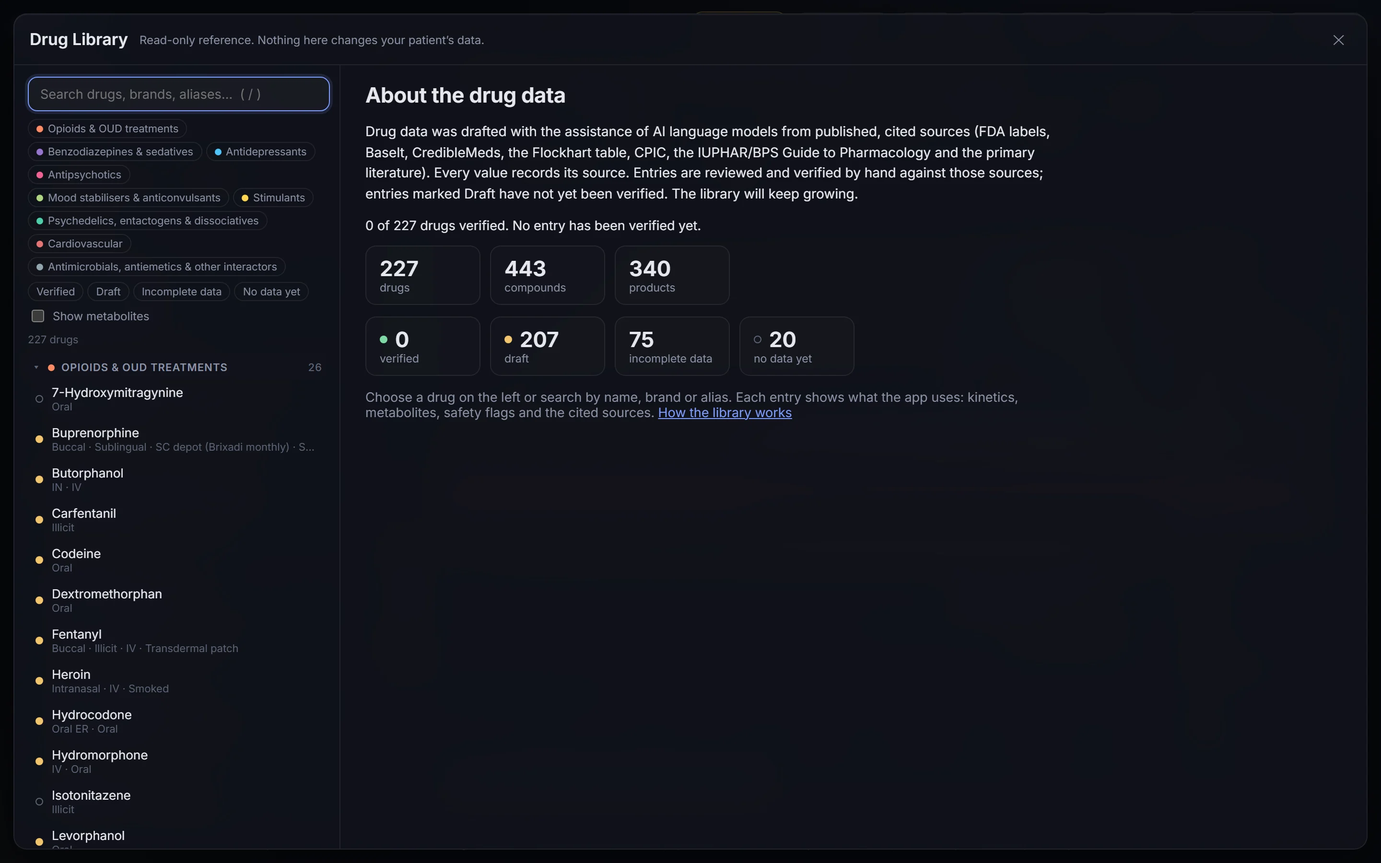
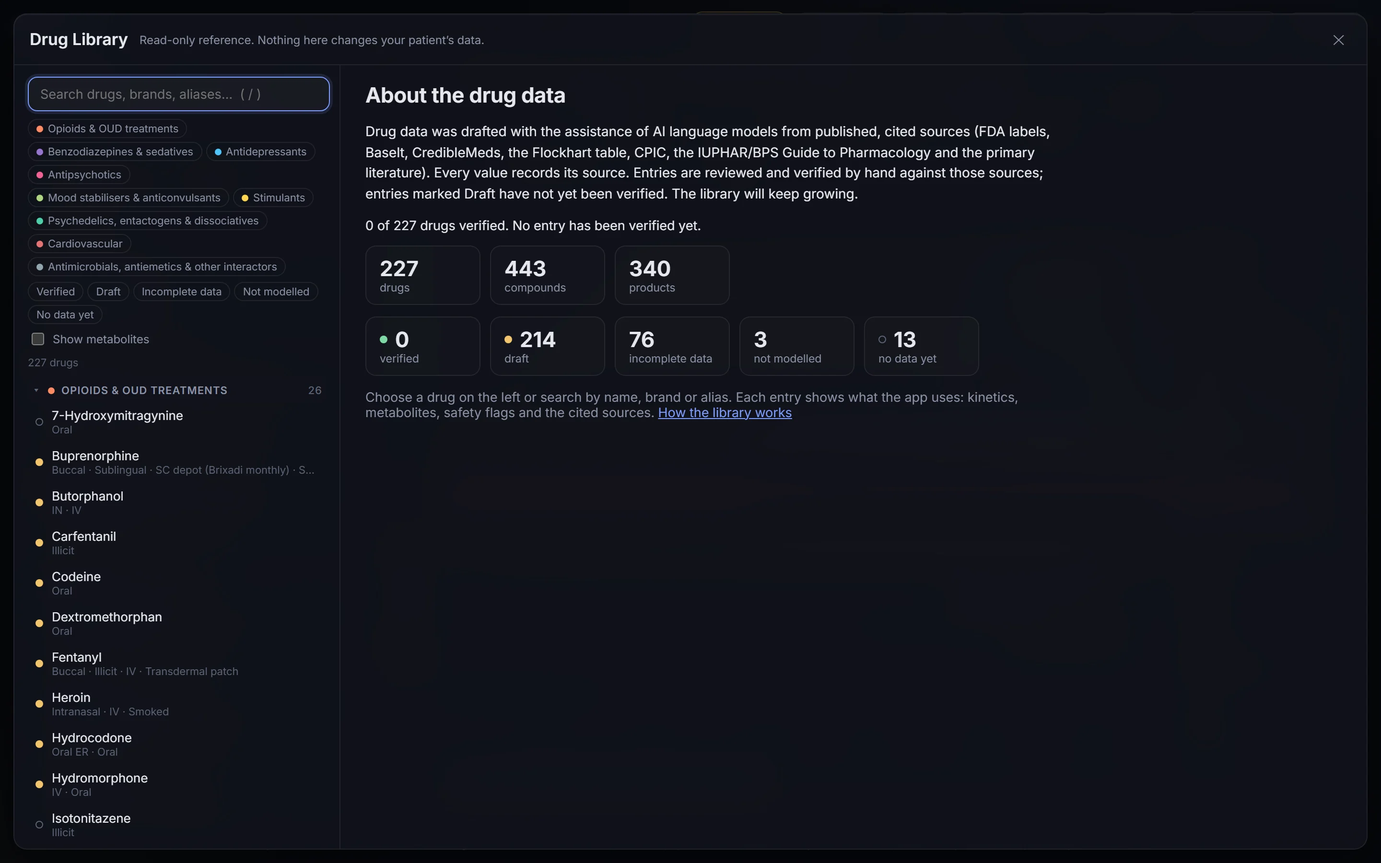
v2.2 step 6: help and README (prodrugs, alcohol, not-modelled exposures, conditional and endogenous metabolites); regenerate screenshots

diff --git a/help.html b/help.html
@@ -286,6 +286,13 @@
                 <figcaption>A depot injection.</figcaption>
               </figure>
             </div>
+            <h4 id="alcohol">Alcohol</h4>
+            <p>Alcohol is entered in <strong>standard drinks</strong> or <strong>grams of ethanol</strong>; switch with the <em>Unit</em> menu next to the amount. The grams of ethanol are shown under the amount. A standard drink is 14 g by default. Countries define it differently (14 g in the US, 10 g in Australia, 8 g for a UK unit), so set yours in <a href="#settings">Settings → Clearance</a>. The regimen defaults to once a day.</p>
+            <p>The body removes alcohol at a roughly fixed rate per kg of body weight rather than by half-lives, so ClearDate needs the patient's <strong>weight</strong>. Without it the form shows <em>Needs body weight</em>, and the product isn't simulated: its doses appear as markers on the chart and the status reads “Needs body weight”. With a weight, the curve falls in a straight line and reaches zero; the slowest published rate sets the clear date.</p>
+            <h4 id="prodrugs">Prodrugs</h4>
+            <p>Some products are given as one compound and act as another: psilocybin becomes psilocin, clorazepate becomes nordiazepam, GBL becomes GHB. You enter the amount of what was taken. The form shows “Administered as psilocybin, modelled as psilocin (× 0.719)”: the amount is converted by the ratio of their molar masses and only the active compound is plotted. The status carries “prodrug — modelled as …” as an assumption.</p>
+            <h4 id="sessions">Exposures that aren't modelled</h4>
+            <p>A few exposures aren't simulated at all because a curve would mislead. Nitrous oxide, for example, is exhaled within minutes, but it inactivates vitamin B12 for days. These products carry a <span class="badge badge-muted">not modelled</span> badge in the search. They are entered as a <strong>session</strong> with a start and end time and no amount, or as <em>Repeated sessions</em> with how long each lasts. They are drawn as bars on the chart, never as a curve, and they have no clear date. Their status is “Not modelled”, with the reason. Any lingering effect still appears on the lingering-effects track, starting from the end of each session.</p>
             <h4>Editing and deleting</h4>
             <p>Entered doses are listed under <em>Entered doses</em>, grouped by category, with each product's status underneath. Use ✎ to edit a dose and 🗑 to delete it. Hover over a status for the full list of assumptions.</p>
             <figure class="shot narrow" data-img="dose-list.webp">
@@ -333,6 +340,7 @@
               <li><strong>Bands</strong>: the shaded area around a line runs from the fastest to the slowest clearance in the published range. The line is the typical value.</li>
               <li><strong>Today</strong> is a dotted line; the <strong>first ibogaine dose</strong> is a bold gold line, with later doses as thin dashed gold lines.</li>
               <li><strong>Clear ticks</strong> along the bottom mark each product's clear date: “✓ name”, “✓ name*” for “with assumptions”, and a hollow, dashed “≥ name (incomplete)” for a lower bound.</li>
+              <li><strong>Exposure markers</strong> appear just above the clear ticks for products without a curve: a bar across each session, or a short tick at each dose. They're labelled “name — not modelled” or “name — needs body weight”. They show <em>when</em> the exposure happened; they say nothing about amounts.</li>
             </ul>
             <figure class="shot" data-img="chart-main.webp">
               <div class="shot-frame"><img src="help/img/chart-main.webp" alt="The main chart: curves for each drug with shaded range bands, a dotted Today line, the gold Ibogaine line and a dashed booster line, and clear ticks with drug names along the bottom." /></div>
@@ -398,6 +406,8 @@
                   <tr><td>Clear by &lt;date&gt;</td><td>Every relevant compound is below the threshold by that date, using library values only.</td><td>Still read the range: the PDF also gives the slowest date in the range.</td></tr>
                   <tr><td>Clear by &lt;date&gt; — with assumptions</td><td>The date relies on something the tool had to assume: an assumed spread around a single published value, the midpoint of a published range, an assumed phenotype effect, a steady-state switch, a conservative choice for partial data, or a metabolite treated as inactive before review.</td><td>Hover over the status, or read the PDF's “Assumptions and missing data”, and decide whether each one is acceptable for this patient.</td></tr>
                   <tr><td>Incomplete — missing kinetics for: … · not before &lt;date&gt;</td><td>At least one active or not-yet-classified compound in the drug has no published kinetics in the library. The date is a lower bound: clearance can't happen earlier, but it may be later.</td><td>Treat the date as the earliest possible. Check the missing compound in the literature or with a laboratory test before relying on it.</td></tr>
+                  <tr><td>Not modelled — &lt;reason&gt;</td><td>The exposure is deliberately not simulated (for example nitrous oxide). Sessions are drawn as markers, and any lingering effect is shown, but there is no clear date.</td><td>Read the reason and the lingering-effects note, and judge the timing clinically.</td></tr>
+                  <tr><td>Needs body weight</td><td>Alcohol's elimination rate scales with weight, and none is entered.</td><td>Enter the weight in the Patient tab.</td></tr>
                   <tr><td>No data yet</td><td>The drug itself has no half-life in the library. It can't be selected, and isn't plotted.</td><td>Use other sources, or <a href="#custom">enter it as a custom drug</a> with a cited half-life, and <a href="#feedback">request it</a>.</td></tr>
                   <tr><td>Verified — incomplete data</td><td>A badge: the entry has been fully reviewed, and the missing kinetics are confirmed as unpublished rather than not yet looked up.</td><td>As for Incomplete. Waiting for a library update won't help.</td></tr>
                 </tbody>
@@ -492,6 +502,7 @@
               <li><strong>CYP2D6 recovery half-life (h)</strong>: default 51 h. How fast CYP2D6 is resynthesised after mechanism-based inhibition. Marked “verify”: check it against current literature.</li>
               <li><strong>Assumed spread when only one value is known (CV %)</strong>: default 30%. Used where the library has a single half-life or a missing bound. Labelled “assumed spread” wherever it is used.</li>
               <li><strong>Treat unknown metabolites as formation-limited</strong>: off by default. Off, a product with a metabolite of unknown kinetics is “Incomplete”. On, that metabolite is assumed to clear as fast as it is formed, and the product is “with assumptions” instead.</li>
+              <li><strong>Standard drink (g of ethanol)</strong>: default 14 g, the US definition; 10 g in Australia, 8 g for a UK unit. Used for alcohol entered in standard drinks (see <a href="#alcohol">Alcohol</a>).</li>
             </ul>
             <h4>Display</h4>
             <ul>
@@ -508,7 +519,7 @@
             </ul>
             <div class="shot-row">
               <figure class="shot narrow" data-img="settings-clearance.webp">
-                <div class="shot-frame"><img src="help/img/settings-clearance.webp" alt="The Clearance settings: clear threshold 5.5 half-lives with about 2.21% remaining, CYP2D6 recovery half-life 51 hours with a verify badge, assumed spread 30%, and the unknown-metabolites option." /></div>
+                <div class="shot-frame"><img src="help/img/settings-clearance.webp" alt="The Clearance settings: clear threshold 5.5 half-lives with about 2.21% remaining, CYP2D6 recovery half-life 51 hours with a verify badge, assumed spread 30%, the unknown-metabolites option, and the standard drink size, 14 g." /></div>
                 <figcaption>Clearance settings.</figcaption>
               </figure>
               <figure class="shot narrow" data-img="settings-display.webp">
@@ -599,6 +610,7 @@
             <li><strong>Two-phase drugs</strong> clear part of each dose quickly and the rest slowly. Both phases are modelled when the library has them.</li>
             <li><strong>Steady state</strong>: some drugs clear more slowly (or quickly) after weeks of regular dosing. Once a regimen has run long enough, the steady-state half-life is used, and the tooltip and PDF say so.</li>
             <li><strong>Patches, infusions and depots</strong> release the drug into the body gradually. ClearDate models the release as its own step before elimination, so the drug keeps entering the body for a while after a patch is removed or long after a depot injection.</li>
+            <li><strong>Alcohol</strong> is removed at a fixed rate (mg per kg per hour) rather than a fixed fraction, so its curve falls in a straight line and reaches zero. The fastest published rate gives the lower edge of the band and the slowest gives the upper edge and the clear date.</li>
           </ul>
 
           <h3>CYP2D6 phenotype</h3>
@@ -606,6 +618,10 @@
 
           <h3>Clinical relevance of metabolites</h3>
           <p>Every metabolite in the library is classed as <em>active</em>, <em>inactive</em> or <em>unknown</em>. Drugs taken and active metabolites always count towards the clear date. Unknown ones count too, so an unclassified metabolite with unpublished kinetics makes the product “Incomplete” rather than silently ignored. Inactive metabolites never hold up the clear date; when that classification hasn't been reviewed yet, the status becomes “with assumptions”.</p>
+
+          <h3>Endogenous and conditional metabolites</h3>
+          <p>Some metabolites are also made by the body, such as indole-3-acetic acid from DMT. Only the excess over the body's own level would matter, and that isn't modelled. Once a reviewer has confirmed the metabolite's relevance, it is marked <em>endogenous — excess over baseline not modelled</em> and doesn't make the product “Incomplete”.</p>
+          <p>A few metabolites form only when another drug is present at the same time. Cocaethylene, for example, forms only when cocaine and alcohol are in the body together, and ethylphenidate only from methylphenidate with alcohol. ClearDate includes such a metabolite only when the two overlap, and notes “formed because alcohol was also taken”. In the Drug Library these links are drawn dashed and labelled “with alcohol”. If the alcohol amount can't be simulated (for example without a body weight), the alcohol is assumed to be present from the first drink, and this is listed as an assumption.</p>
 
           <h3>The conservative rule</h3>
           <p>When data is only partly published, ClearDate uses whichever option gives the later clear date, and labels it. For example, a fast early phase without a known size is ignored, so the whole dose follows the slower half-life. When it isn't known how long a drug takes to reach steady state, a repeated regimen is simulated both ways and the later date counts.</p>
@@ -660,7 +676,7 @@
             <ol class="callout-list">
               <li>Search by name, brand or alias, using the same search as the Doses panel.</li>
               <li>Filter by category. You can select more than one.</li>
-              <li>Filter by status: Verified, Draft, Incomplete data, No data yet.</li>
+              <li>Filter by status: Verified, Draft, Incomplete data, Not modelled, No data yet.</li>
               <li>Also list metabolites, which have entries of their own.</li>
               <li>Status dot: green for verified (a green ring for verified with incomplete data), amber for draft, an empty circle for no data yet.</li>
               <li>Live counts from the library.</li>
@@ -685,6 +701,7 @@
               <li>A metabolite. Select it to open its own entry. Blue outline: active; grey: inactive; dashed amber: relevance unknown.</li>
               <li>The fraction formed, and any CYP2D6 phenotype multipliers, on each link.</li>
             </ol>
+            <p>A dashed amber link labelled “with alcohol” is <a href="#model">conditional</a>: that metabolite only forms when alcohol is also present. A green <em>endogenous</em> chip marks a metabolite the body also makes. Products of prodrugs show “administered as … modelled as …” with the molar-mass factor, alcohol shows its elimination rate per kg, and not-modelled drugs show the reason instead of a half-life.</p>
           </figure>
           <figure class="shot" data-img="library-sources.webp">
             <div class="shot-frame"><img src="help/img/library-sources.webp" alt="The sources of one entry: each section with its cited sources as links and a small coloured provenance dot, an open Show evidence notes panel with the raw notes, and a legend explaining the dots." /></div>

diff --git a/README.md b/README.md
@@ -60,9 +60,10 @@ Double-click **`stop-cleardate.bat`** to stop the app and the editor. It kills w
 | `npm run build` | Runs the validator (`prebuild`), type-checks and writes the static site to `dist/`. The build fails if `drugs.json` has errors. Demo data is never bundled. |
 | `npm run preview` | Serves `dist/` locally. |
 | `npm test` | Unit tests (PK simulation, model and clear status, migration, search, serialisation, sessions). |
-| `npm run init-data` | Creates a schema 2.1 `public/drugs.json` from `tools/candidates.json` with every value unknown (`null` / `unassessed`). Uses the same product rules as the migrations, so it yields the same product set. Refuses to overwrite an existing file; `--force` overwrites, `--out <path>` writes elsewhere. |
+| `npm run init-data` | Creates a schema 2.2 `public/drugs.json` from `tools/candidates.json` with every value unknown (`null` / `unassessed`). Uses the same product rules as the migrations, so it yields the same product set. Refuses to overwrite an existing file; `--force` overwrites, `--out <path>` writes elsewhere. |
 | `npm run migrate-v2` | One-off migration of a v1 `drugs.json` to schema v2 (see below). Does nothing if the file is already v2. |
 | `npm run migrate-v2.1` | One-off migration of a v2 `drugs.json` to schema 2.1 (see below). `--dry-run` reports without writing. Does nothing if the file is already 2.1. |
+| `npm run migrate-v2.2` | One-off migration of a 2.1 `drugs.json` to schema 2.2 (see below). `--dry-run` reports without writing. Idempotent. |
 | `npm run validate` | Checks `public/drugs.json` (or a path given as an argument) and prints errors, warnings and per-category progress. Exits non-zero on errors. |
 | `npm run editor` | Local data editor at http://127.0.0.1:5174. |
 | `npm run screenshots` | Regenerates the help page screenshots in `public/help/img/` (and the callout positions in `callouts.json`) with Playwright, from the fictional patient and fixed date in `tools/help-scenario.json`. Run it after UI or library changes, then check the callout lists in `help.html`. First time only: `npx playwright install chromium`. |
@@ -86,7 +87,7 @@ The site is fully static: no backend, no analytics, no external requests at runt
 
 ## Editing `drugs.json`
 
-The file is schema 2.1 (`"schemaVersion": 2.1`); the field rules are in `docs/ClearDate_Spec_v2.md` and its addendum `docs/ClearDate_Spec_v2.1.md`. Three principles run through it:
+The file is schema 2.2 (`"schemaVersion": 2.2`); the field rules are in `docs/ClearDate_Spec_v2.md` and its addenda `docs/ClearDate_Spec_v2.1.md` and `docs/ClearDate_Spec_v2.2.md`. Three principles run through it:
 
 - **Unknown is `null`, never `0`.** Every number without data is `null`. Safety enums (QT tier, CYP2D6 substrate / inhibitor / inhibition type, nonlinear kinetics) have an explicit `unassessed` value, and `receptorsAssessed: false` means an empty receptor list hasn't been researched. The app and the export always show these as "unassessed", never as "none". (The one deliberate zero is a CYP2D6 *formation* multiplier, see below.)
 - **Provenance per section.** Each compound section (`halfLife`, `metabolism`, `relevance` for metabolites, `molecularWeight`, `cyp2d6`, `qt`, `receptors`, `lingeringEffects`, `nonlinearKinetics`) and each product section (`class`, `aliases`, `components`, `input`, `typicalDose`) has a tag: `checked`, `recall`, `estimate`, `gap` or `reviewer`, with a free-text note in `sourceNotes` and, once reviewed, a date in `reviewedDates`. Anything `recall` or `estimate` shows a *draft* badge.
@@ -97,16 +98,18 @@ The library has three lists.
 - **`compounds`**: every parent drug and every metabolite, each defined once.
   - Half-lives are **ranges**: `{ typical, min, max, rangeType, cv }`. `rangeType` says what the bounds mean (`observed-range`, `mean-2sd`, `cohort-means`, `cv`, `single-value`). With `cv` the app derives a lognormal 95 % band. With `single-value` it applies the *assumed spread* from Settings (default CV 30 %) and labels it as such. When a source gives only a range (e.g. a depot label's "43–60 days"), leave `typical` `null` and set both bounds with `rangeType` `observed-range` or `cohort-means`: the app uses the geometric midpoint √(min × max) and labels it "assumed midpoint of reported range".
   - `clinicalRelevance` is `active`, `inactive` or `unknown`. It decides whether a metabolite can hold up a clear date (see *Clear status*). Parent compounds and any compound a product doses directly always count as `active`, whatever the field says.
-  - `kinetics.mode` is `intrinsic` (uses `halfLifeHours`, the terminal phase), `formation-limited` (the compound tracks its parent: typical for glucuronide and sulfate conjugates, no half-life needed) or `unknown` (can't be simulated).
+  - `kinetics.mode` is `intrinsic` (uses `halfLifeHours`, the terminal phase), `formation-limited` (the compound tracks its parent: typical for glucuronide and sulfate conjugates, no half-life needed), `zero-order` (saturable elimination at `zeroOrderRateMgPerKgPerHour`, a range, × body weight: ethanol), `not-modelled` (deliberately not simulated; `notModelledReason` is shown instead of a clear date: nitrous oxide, 5-HTP, L-tryptophan) or `unknown` (can't be simulated).
+  - `endogenous: true` marks a metabolite the body also makes (indole-3-acetic acid from DMT). With `unknown` kinetics and a reviewer-confirmed relevance it is labelled "endogenous — excess over baseline not modelled" and doesn't block the clear date.
   - Optional `kinetics.earlyPhase` (`{ fraction, halfLifeHours }`) models a fast first phase, such as morphine's. Optional `kinetics.steadyState` (`{ afterDays, halfLifeHours }`) switches to a different half-life once a regimen has run long enough, such as methadone's.
-  - A metabolite lists its parents in `formedFrom`: `{ compound, fraction, cyp2d6Multiplier }`. `fraction` is the share of the parent that becomes this metabolite, or `null` if unknown. `cyp2d6Multiplier` scales the fraction per phenotype (codeine → morphine); a value of `0` means the metabolite isn't formed in that phenotype (e.g. morphine in poor metabolisers, per CPIC). A compound can have several parents, chains can be any depth, known fractions out of one parent must sum to 1 or less, and links must not form a cycle.
+  - A metabolite lists its parents in `formedFrom`: `{ compound, fraction, cyp2d6Multiplier }`. `fraction` is the share of the parent that becomes this metabolite, or `null` if unknown. `cyp2d6Multiplier` scales the fraction per phenotype (codeine → morphine); a value of `0` means the metabolite isn't formed in that phenotype (e.g. morphine in poor metabolisers, per CPIC). A compound can have several parents, chains can be any depth, known fractions out of one parent must sum to 1 or less, and links must not form a cycle. An optional `condition: { requiresCompound }` makes the link conditional: it is only formed while that compound is also present (cocaine → cocaethylene with ethanol), and it never makes a product incomplete.
   - `cyp2d6.halfLifeMultiplier` scales the compound's own half-life per phenotype; its values must be above 0.
   - Both phenotype maps may be **partial**: list only the phenotypes with data. A missing phenotype counts as ×1 and is labelled as assumed.
   - QT weight and its calibration amount (`qt.weight`, `qt.referenceAmountMg`) are set only by a reviewer.
 - **`products`**: what a patient actually takes.
   - `candidateId` ties the product to its entry in `tools/candidates.json`.
   - `components` lists what one dose delivers: `{ compound, ratio, saltFactor, bioavailability }`. Most products have one component. Buprenorphine/naloxone has two (ratio 1 and 0.25), and the first component is the one the dose is labelled by.
-  - `doseUnit` is `mg`, `µg`, `µg/h` or `mg/h`. `formulation` is `IR`, `ER`, `SR`, `XL`, `XR`, `CR`, `depot` or `patch`.
+  - **Prodrugs**: a component with `administeredAs` (what the patient takes) and `massFactor` (molar mass of the modelled compound ÷ the administered one) delivers `dose × ratio × massFactor` to `compound`; the administered compound is never simulated. Psilocybin → psilocin, clorazepate → nordiazepam, 1P-LSD → LSD, GBL → GHB. Provenance section `conversion`.
+  - `doseUnit` is `mg`, `µg`, `g`, `standard drinks` (alcohol; grams per drink is a user setting, default 14), `µg/h`, `mg/h` or `session` (a not-modelled exposure with a start and end time). `formulation` is `IR`, `ER`, `SR`, `XL`, `XR`, `CR`, `depot` or `patch`.
   - `input` says how a dose enters the body: `bolus` (instant), `first-order-release` (a release compartment with `releaseHalfLifeHours`, for depots and ER forms), or `zero-order` (a constant rate for a wear time, for patches and infusions, optionally through a skin depot). `defaultDurationHours` prefills patch wear time.
   - `typicalDose` (`{ amount, unit, basis }`) is only a placeholder in the dose form.
   - `secondaryCategories` puts a product under more than one picker group.
@@ -152,6 +155,9 @@ Saves are atomic, keep a rolling backup in `tools/editor/.backups/`, and are ref
 - **Combination products.** Each component receives `dose × ratio × saltFactor × bioavailability`, where a `null` factor counts as 1.
 - **Steps.** Pools are updated upstream-first with the exact solution for constant inflow over the step. The step is the shortest active half-life ÷ 20, at most 1 h, and never crosses a dose time or a patch start or stop. Against analytic solutions (Bateman, biexponential, infusion steady state) the error is under 1 %.
 - **Units.** Amounts are shown in the product's mass unit (parent-equivalent, or the metabolite's own mass when both molecular weights are known).
+- **Zero-order (alcohol).** The amount falls by `rate × body weight` per hour until it reaches zero (`A' = max(0, A + input − R·dt)`). The min run uses the fastest rate and the max run the slowest, which sets the clear date. Without a body weight the product isn't simulated: status *Needs body weight*, with exposure markers on the chart.
+- **Not modelled.** No curve and no clear date: status "Not modelled — \<reason\>". Doses are drawn as exposure markers (a bar across each session), and lingering bands start at the end of each exposure.
+- **Conditional links** are simulated in a second pass: the link is active while the parent is above its clear threshold and the required compound is present. The note reads "formed because alcohol was also taken". If the required compound can't be simulated, it is assumed present from its first dose and that is listed as an assumption.
 - **Formation-limited compounds** are simulated with an elimination half-life of one-tenth of their fastest parent's effective half-life, so they track the parent. They're labelled "tracks parent (formation-limited)". The export notes that conjugates can accumulate in renal impairment.
 - **Unknown fractions.** A metabolite link with a `null` fraction is simulated with fraction 1. Everything downstream of it is **normalized**: drawn dashed on the secondary "% of own peak" axis and labelled "amount unknown — timing only". Its clear time is still valid, because clearing is measured against the compound's own peak.
 - **Range band.** Three runs: all-min, typical and all-max. Each range uses its own `rangeType` (a lognormal band for `cv`, the assumed spread for `single-value`, the reported bounds around the assumed midpoint for range-only evidence), and early phases and release half-lives use their own ranges in the same run. The patient's CYP2D6 phenotype scales substrate half-lives (`halfLifeMultiplier`) and metabolite formation (`cyp2d6Multiplier`). An unknown phenotype runs poor and ultrarapid as the band edges. A phenotype missing from a partial map counts as ×1, labelled as assumed.
@@ -169,6 +175,7 @@ Saves are atomic, keep a rolling backup in `tools/editor/.backups/`, and are ref
   - **Clear by \<date\>**.
   - **Clear by \<date\> — with assumptions**: formation-limited tracking, assumed spread, an assumed range midpoint or phenotype multiplier, a steady-state switch, a conservative partial-data choice, a draft inactive exclusion or normalized curves were used. They're listed on hover and in the export.
   - **Incomplete — missing kinetics for: …**: some active or unknown-relevance compound in the tree has `unknown` kinetics (an active compound formed only through such a compound is listed as "formed only via …"). The date shown is a lower bound ("not before \<date\>"), and an incomplete product near the ibogaine date gives an amber warning, never green. Settings → *Treat unknown metabolites as formation-limited* (off by default) simulates such compounds as formation-limited instead, which turns the status into "with assumptions".
+  - **Not modelled — \<reason\>** and **Needs body weight**: see above; neither has a clear date.
   - **No data yet**: the primary component can't be simulated, so the product can't be dosed.
 - **CYP2D6 track.** Shows the intervals where an inhibitor is above its clear threshold. Mechanism-based inhibitors add a recovery tail of X × the enzyme recovery half-life (default 51 h). A compound with `inhibitionType` set (`reversible` / `mechanism-based`) but `inhibitor: "unassessed"` is drawn as a hatched band, "inhibition documented, strength unassessed", and counts as at least `weak` for the inhibition-at-treatment warning, which names it separately. Compounds with both fields unassessed stay off the track and are listed in the "CYP2D6 inhibition unassessed" warning instead. If inhibition overlaps the ibogaine time (or the patient is a poor metaboliser), the ibogaine projection uses the poor-metaboliser multiplier. If a CYP2D6 substrate in the projection has no `halfLifeMultiplier.poor`, the curve is left unadjusted and labelled "poor-metaboliser effect not quantified"; the warning, the tooltip and the export's Assumptions and missing data say "not quantified — no phenotype data for <compound>".
 - **QT lanes.** There is one thin lane per compound whose QT tier isn't `none`, visible while that compound is above its clear threshold. The colour is the tier and the opacity is the fraction of the compound's own peak. Unassessed compounds get a grey hatched "QT unassessed" lane. The optional **summed relative QT load** (`Σ qt.weight × amount ÷ qt.referenceAmountMg`) works only when every active lane has a reviewer-set weight and reference amount and an absolute amount. Otherwise its toggle is disabled, and the tooltip names the compounds that lack calibration. None of this predicts QTc in ms.
@@ -222,6 +229,16 @@ What the migration does, in short:
 - `reviewedDates: {}` on every compound and product;
 - CYP2D6 inhibitors recorded as `none` whose note says inhibition was never assessed are reset to `unassessed`. The script checks the hits against the expected list in `tools/migrate-v21-lib.ts` and stops without writing anything if they differ;
 - `baclofen_intrathecal` is removed (pump and CSF kinetics can't be modelled); sessions that used it are offered `baclofen_oral`.
+
+## Migrating to schema 2.2
+
+`public/drugs.json` is already on 2.2 (`docs/migration_v2_2_report.md`). For another 2.1 file, close the editor and run `npm run migrate-v2.2` (`--dry-run` to preview, or a path). It is idempotent, keeps the 2.1 file as `backups/<name>.v2.1-backup.json`, and stops without writing if an id it expects is missing. It:
+
+- converts the prodrug products (clorazepate, psilocybin, 1P-LSD, GBL) to `administeredAs` + `massFactor` components (provenance `estimate`);
+- sets nitrous oxide, 5-HTP and L-tryptophan to `not-modelled` with a reason, and nitrous oxide products to `session` dose units;
+- sets ethanol to `zero-order` (rate left `null` for a reviewer) and its products to `standard drinks`;
+- marks indole-3-acetic acid `endogenous`, and makes cocaine → cocaethylene and methylphenidate → ethylphenidate conditional on ethanol;
+- reports data-status counts before and after.
 
 ## Implementation notes
 
